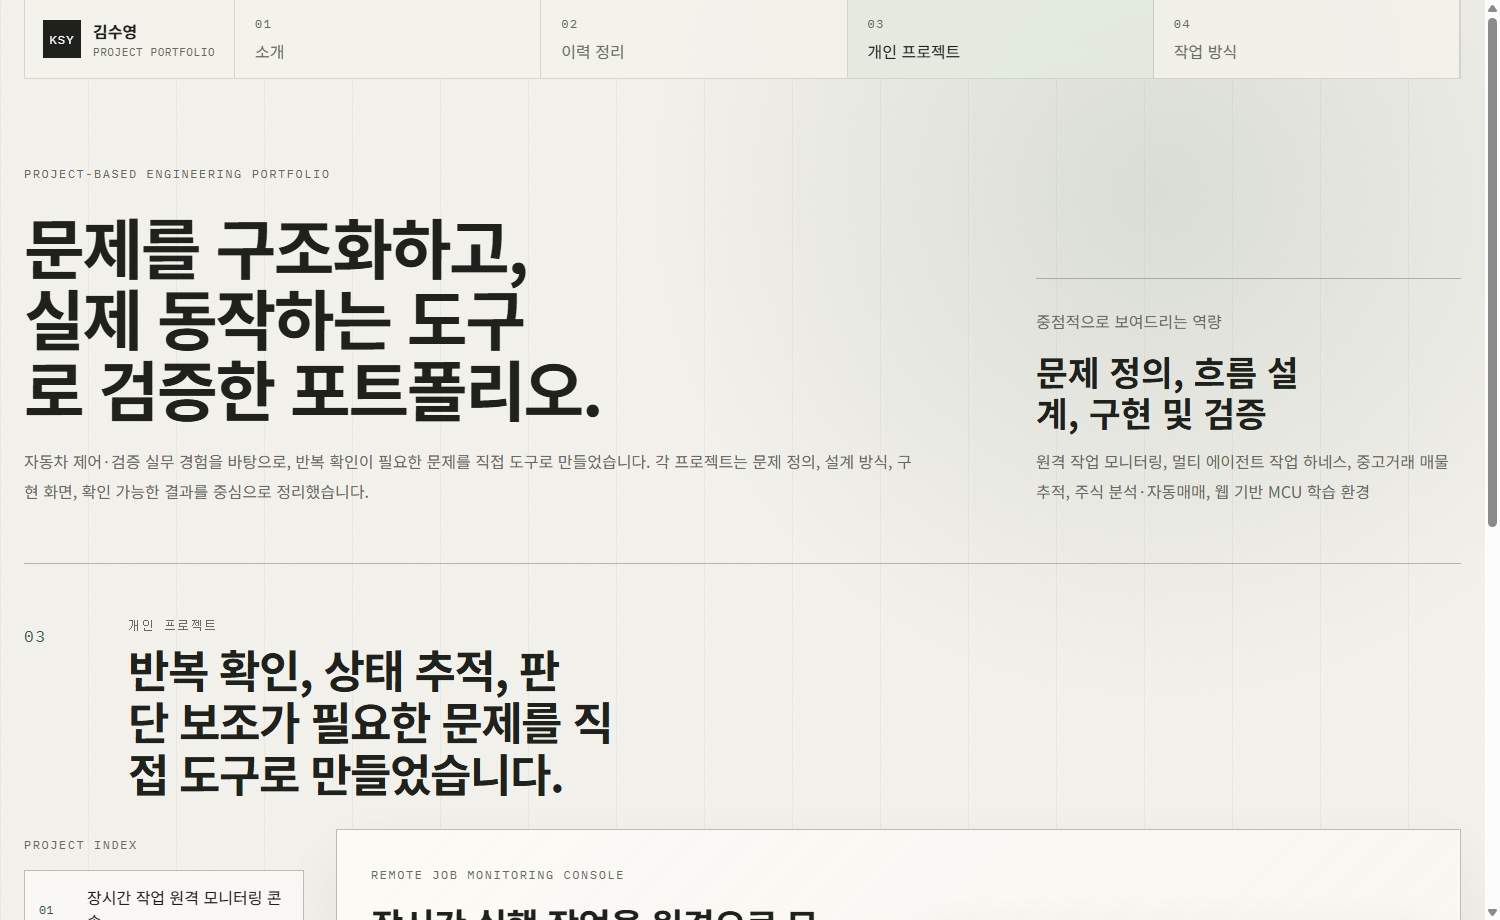
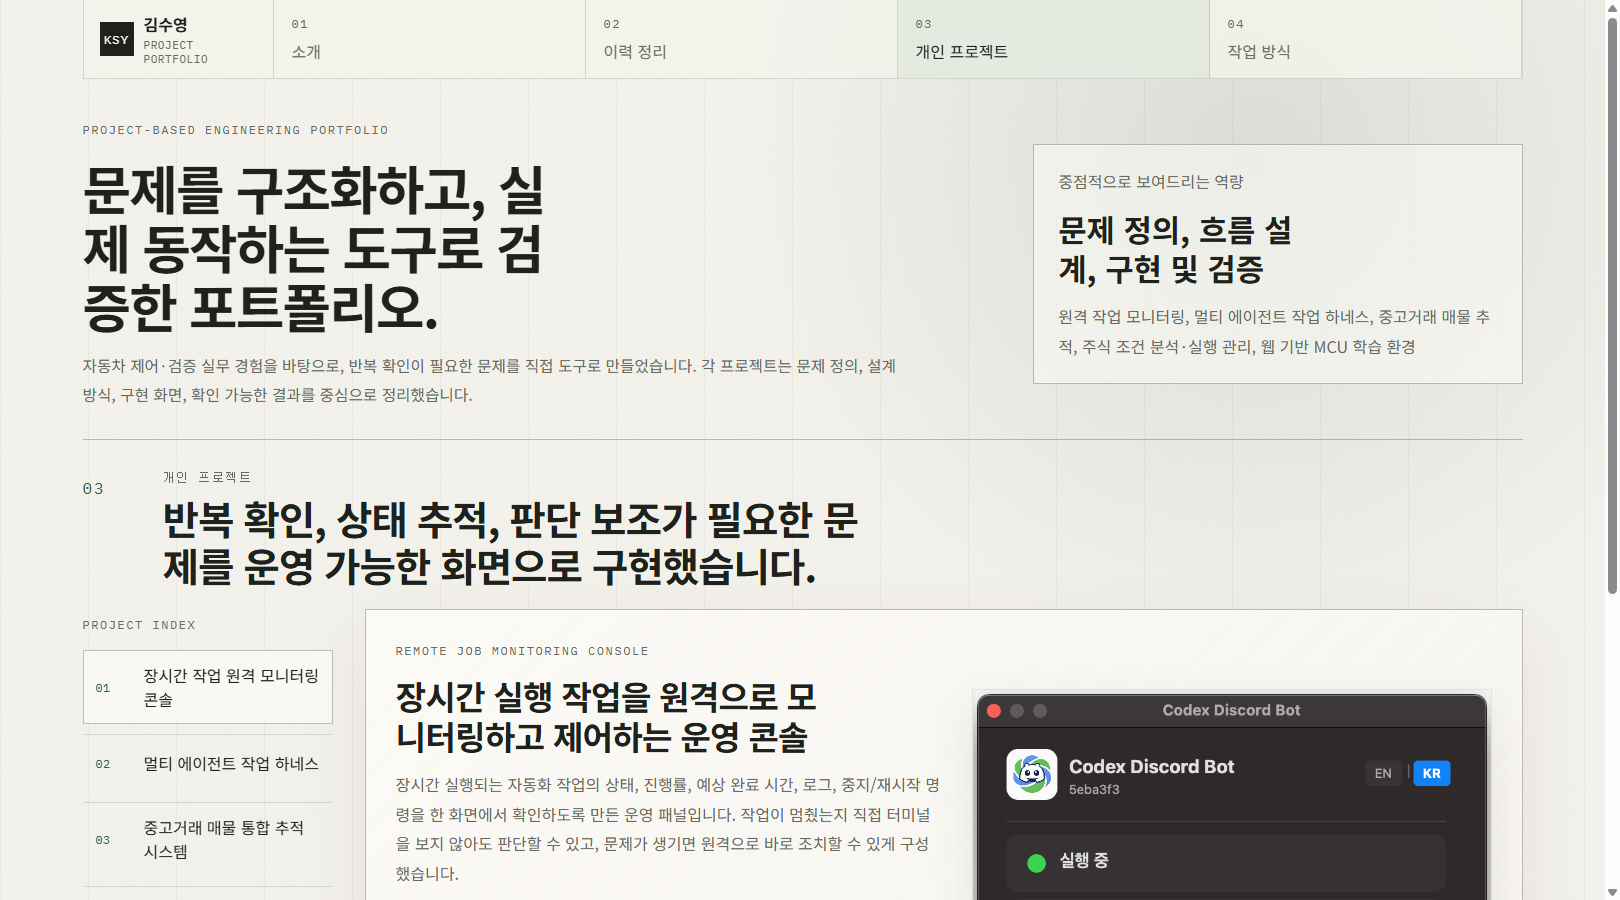
Compress hero layout for project visibility

diff --git a/styles.css b/styles.css
@@ -81,9 +81,9 @@ img {
   position: relative;
   z-index: 5;
   display: grid;
-  grid-template-columns: 210px minmax(0, 1fr);
-  width: min(1600px, calc(100% - 48px));
-  min-height: 78px;
+  grid-template-columns: 190px minmax(0, 1fr);
+  width: min(1440px, calc(100% - 48px));
+  min-height: 66px;
   margin: 0 auto;
   background: rgba(243, 241, 235, 0.88);
   border-right: 1px solid var(--line);
@@ -94,18 +94,18 @@ img {
 
 .brand {
   display: grid;
-  grid-template-columns: 38px minmax(0, 1fr);
-  gap: 12px;
+  grid-template-columns: 34px minmax(0, 1fr);
+  gap: 10px;
   align-items: center;
-  padding: 14px 18px;
+  padding: 12px 16px;
   border-right: 1px solid var(--line);
 }
 
 .brand-mark {
   display: grid;
   place-items: center;
-  width: 38px;
-  height: 38px;
+  width: 34px;
+  height: 34px;
   color: #fff;
   background: var(--ink);
   font-family: var(--mono);
@@ -138,8 +138,8 @@ img {
   display: grid;
   align-content: center;
   gap: 8px;
-  min-height: 78px;
-  padding: 12px 20px;
+  min-height: 66px;
+  padding: 10px 18px;
   color: var(--muted);
   text-align: left;
   background: transparent;
@@ -176,24 +176,24 @@ img {
 }
 
 .site-main {
-  width: min(1600px, calc(100% - 48px));
+  width: min(1440px, calc(100% - 48px));
   margin: 0 auto;
-  padding: 42px 0 84px;
+  padding: 26px 0 76px;
 }
 
 .hero {
   display: grid;
-  grid-template-columns: minmax(0, 1.08fr) minmax(320px, 0.48fr);
-  gap: 48px;
-  align-items: end;
-  min-height: 300px;
-  padding: 18px 0 42px;
+  grid-template-columns: minmax(0, 0.78fr) minmax(340px, 0.42fr);
+  gap: 42px;
+  align-items: center;
+  min-height: auto;
+  padding: 14px 0 30px;
   border-bottom: 1px solid var(--line-strong);
 }
 
 .hero-copy {
   display: grid;
-  gap: 24px;
+  gap: 16px;
 }
 
 .hero h1,
@@ -210,10 +210,10 @@ img {
 }
 
 .hero h1 {
-  max-width: 16ch;
-  font-size: clamp(2.25rem, 4vw, 4.35rem);
-  line-height: 1.08;
-  letter-spacing: -0.035em;
+  max-width: 20ch;
+  font-size: clamp(2.2rem, 3.25vw, 3.45rem);
+  line-height: 1.12;
+  letter-spacing: -0.032em;
 }
 
 .hero p,
@@ -228,15 +228,16 @@ img {
 }
 
 .hero-copy > p:last-child {
-  max-width: 56rem;
-  font-size: 1rem;
+  max-width: 52rem;
+  font-size: 0.98rem;
 }
 
 .hero-panel {
   display: grid;
   gap: 14px;
-  padding: 28px 0 0;
-  border-top: 1px solid var(--line-strong);
+  padding: 22px 24px;
+  background: rgba(251, 250, 246, 0.58);
+  border: 1px solid var(--line-strong);
 }
 
 .hero-panel p {
@@ -245,12 +246,12 @@ img {
 }
 
 .hero-panel strong {
-  font-size: clamp(1.65rem, 2.3vw, 2.55rem);
-  line-height: 1.2;
+  font-size: clamp(1.32rem, 1.9vw, 2rem);
+  line-height: 1.26;
 }
 
 .panel {
-  padding-top: 42px;
+  padding-top: 30px;
 }
 
 .panel[hidden],
@@ -260,10 +261,10 @@ img {
 
 .panel-head {
   display: grid;
-  grid-template-columns: 76px minmax(0, 1fr);
-  gap: 28px;
+  grid-template-columns: 58px minmax(0, 1fr);
+  gap: 22px;
   align-items: start;
-  margin-bottom: 32px;
+  margin-bottom: 24px;
 }
 
 .panel-number {
@@ -273,11 +274,11 @@ img {
 }
 
 .panel-head h2 {
-  max-width: 24ch;
+  max-width: 28ch;
   margin-top: 10px;
-  font-size: clamp(1.9rem, 3vw, 3.35rem);
-  line-height: 1.16;
-  letter-spacing: -0.032em;
+  font-size: clamp(1.65rem, 2.45vw, 2.65rem);
+  line-height: 1.18;
+  letter-spacing: -0.028em;
 }
 
 .intro-layout {
@@ -361,16 +362,16 @@ img {
 }
 
 .project-head {
-  margin-bottom: 30px;
+  margin-bottom: 20px;
 }
 
 .project-head h2 {
-  max-width: 30ch;
+  max-width: 34ch;
 }
 
 .project-lab {
   display: grid;
-  grid-template-columns: 280px minmax(0, 1fr);
+  grid-template-columns: 250px minmax(0, 1fr);
   gap: 32px;
   align-items: start;
 }
@@ -392,8 +393,8 @@ img {
   grid-template-columns: 38px minmax(0, 1fr);
   gap: 10px;
   align-items: center;
-  min-height: 64px;
-  padding: 14px 14px;
+  min-height: 58px;
+  padding: 12px 12px;
   text-align: left;
   background: transparent;
   border: 1px solid transparent;
@@ -421,10 +422,10 @@ img {
 .project-detail {
   display: grid;
   grid-template-columns: minmax(0, 0.82fr) minmax(460px, 0.78fr);
-  gap: 36px;
+  gap: 30px;
   align-items: center;
-  min-height: 500px;
-  padding: 34px;
+  min-height: 430px;
+  padding: 30px;
   background:
     linear-gradient(135deg, rgba(251, 250, 246, 0.92), rgba(247, 244, 237, 0.78)),
     var(--paper);
@@ -446,12 +447,12 @@ img {
 
 .project-copy {
   display: grid;
-  gap: 16px;
+  gap: 14px;
 }
 
 .project-detail h3 {
-  font-size: clamp(1.75rem, 2.35vw, 2.75rem);
-  line-height: 1.18;
+  font-size: clamp(1.58rem, 2.05vw, 2.35rem);
+  line-height: 1.2;
   letter-spacing: -0.024em;
 }
 
